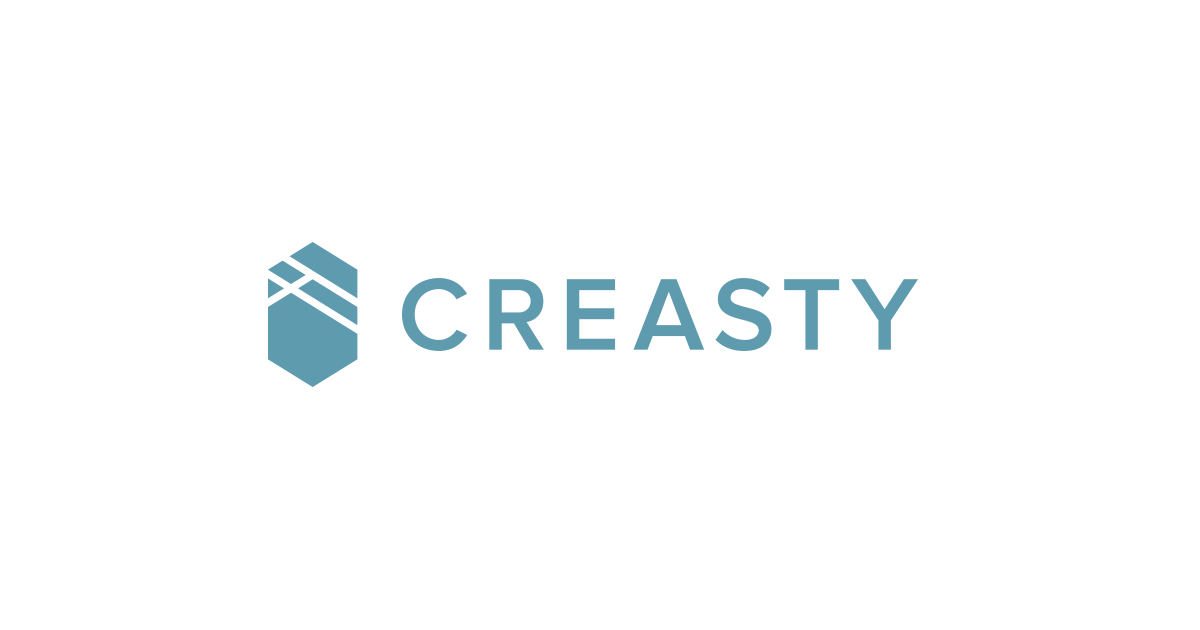
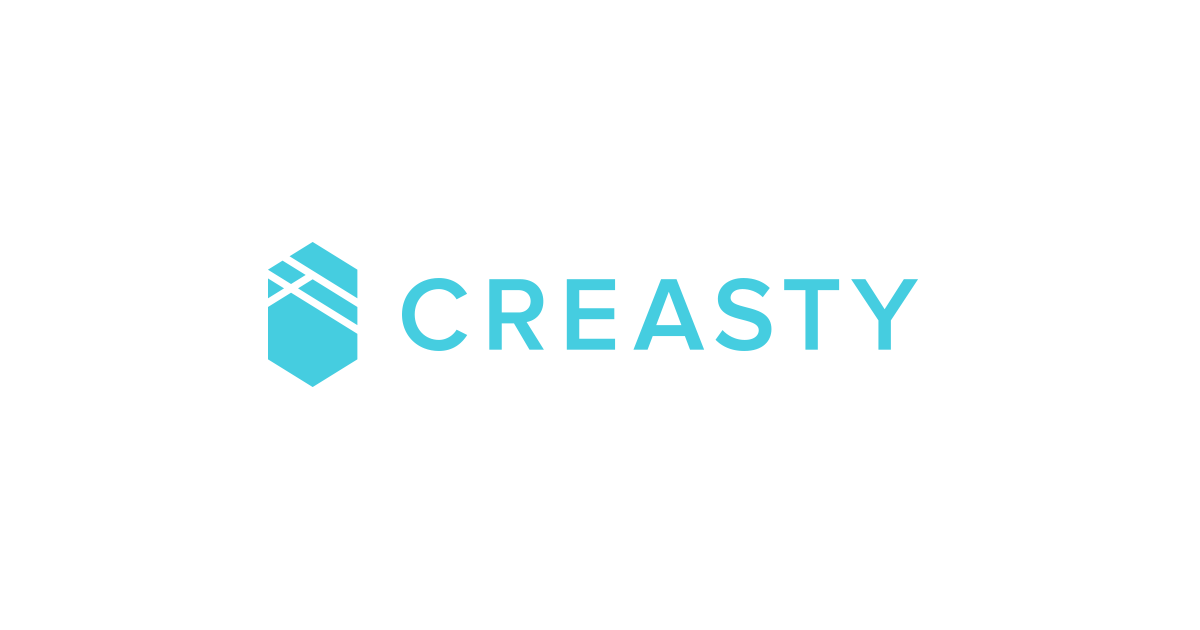
New blue

Changed region(s): [[0.2158, 0.3921, 0.7708, 0.6333]]

diff --git a/src/main.scss b/src/main.scss
@@ -135,7 +135,7 @@ audio:not([controls]) { display: none; }
 ==============================================================================================*/
 $black900: #d9dee0;
 $black300: #414343;
-$blue: #5acae2;
+$blue: #45cde0;
 
 $ease-out-expo: cubic-bezier(.19, 1, .22, 1);
 
@@ -274,7 +274,7 @@ body {
 
         a {
           position: relative;
-          display: block;
+          display: inline-block;
           color: $black300;
 
           opacity: 0;
